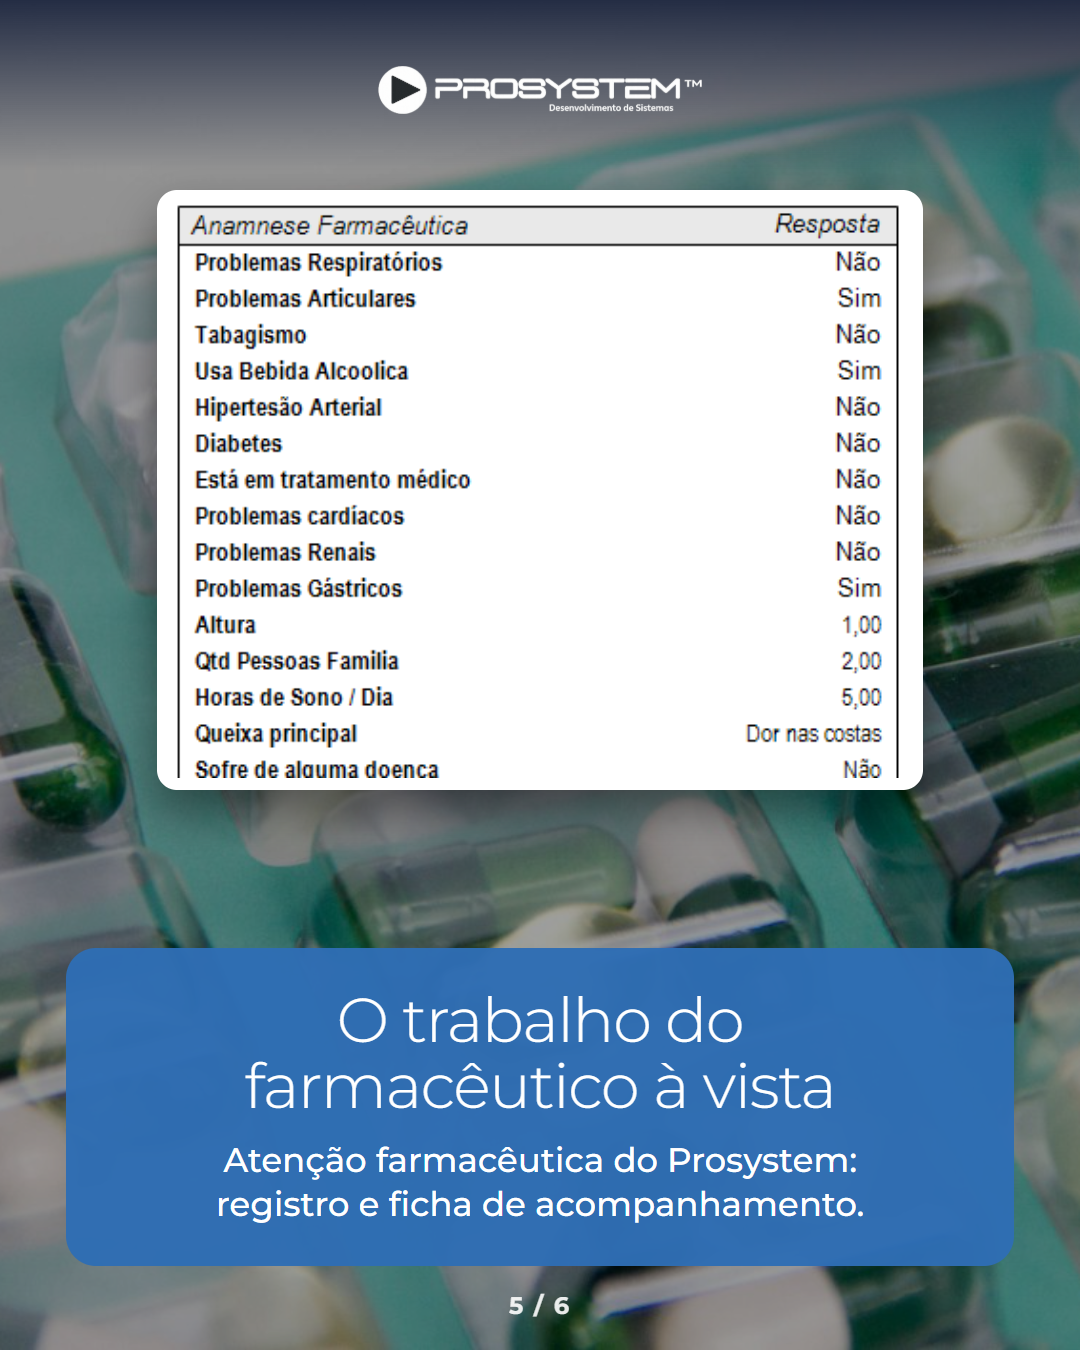
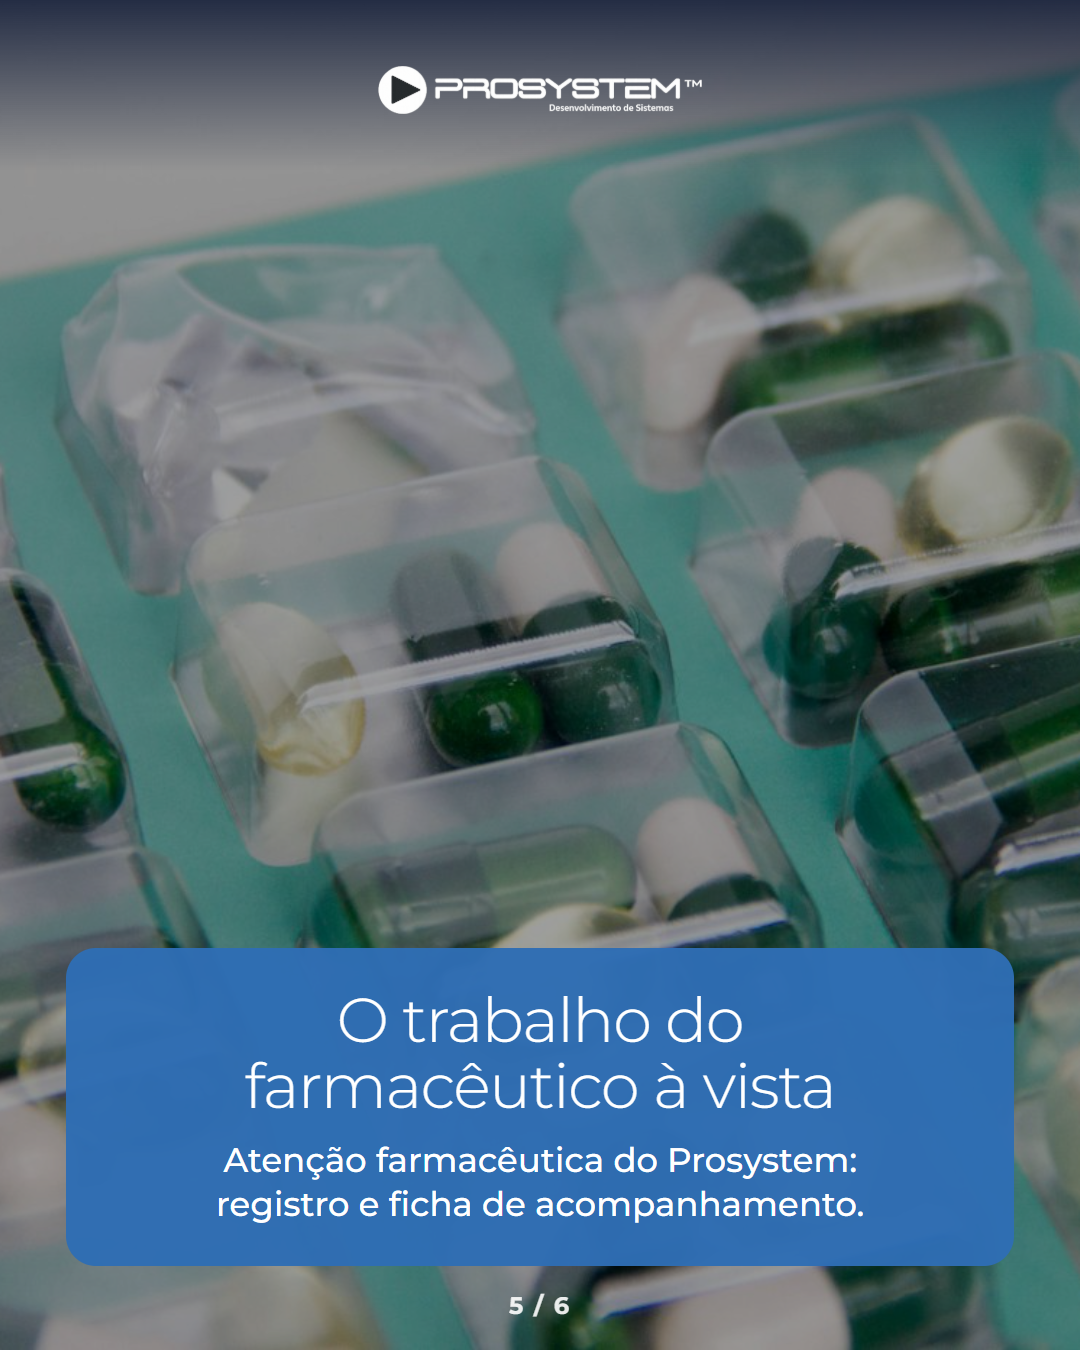
Carrosséis: capa sem tela do sistema e nenhuma tela repetida (uso contínuo, sangria, atenção farmacêutica); regra no caderno de marca

diff --git a/outputs/criativos/nov-dez/pecas-dados.js b/outputs/criativos/nov-dez/pecas-dados.js
@@ -148,11 +148,11 @@ ${CTA}`,
     { foto: 'calculadora', tela: 'sangria-registro', titulo: 'Toda retirada fica <b>registrada.</b>', apoio: 'Valor e motivo, prontos para conferir no fechamento.' },
   ],
   sol: { foto: 'carrinho-paes', titulo: 'Sangria com regra, sem depender da memória', apoio: 'Menos dinheiro exposto na gaveta e um fechamento mais fácil de conferir.' },
-  fim: { foto: 'paes-prateleira-sem-etiqueta', tela: 'sangria-registro', titulo: 'Quer esse controle no caixa da <b>sua padaria?</b>' },
+  fim: { foto: 'paes-prateleira-sem-etiqueta', titulo: 'Quer esse controle no caixa da <b>sua padaria?</b>' },
   kw: 'sangria de caixa',
   cap: `Sangria de caixa na padaria: com café da manhã cheio e fila no caixa, ela fica para depois até alguém lembrar. E dezembro é o mês de mais movimento antes de 2027.\n\nNo Prosystem, você define dois valores: em um, o caixa avisa; no outro, ele só volta a vender depois da sangria. Cada retirada fica registrada para conferir no fechamento.\n\nQuer esse controle na sua padaria? ${CTA}`,
   tags: '#sangriadecaixa #padaria #controledecaixa #sistemaparapadaria',
-  alts: ['Pães em uma prateleira, com o título: quanto dinheiro tem na sua gaveta agora?', 'Aviso do Prosystem pedindo a sangria programada e o texto: chegou no valor, o caixa avisa.', 'Aviso de caixa bloqueado e o texto: passou do limite, o caixa trava.', 'Tela de registro de sangria do Prosystem e o texto: toda retirada fica registrada.', 'Carrinho de pães e o texto: sangria com regra, sem depender da memória.', 'Tela de registro de sangria e o convite para ter esse controle na padaria.'],
+  alts: ['Pães em uma prateleira, com o título: quanto dinheiro tem na sua gaveta agora?', 'Aviso do Prosystem pedindo a sangria programada e o texto: chegou no valor, o caixa avisa.', 'Aviso de caixa bloqueado e o texto: passou do limite, o caixa trava.', 'Tela de registro de sangria do Prosystem e o texto: toda retirada fica registrada.', 'Carrinho de pães e o texto: sangria com regra, sem depender da memória.', 'Pães em uma prateleira e o convite para ter esse controle na padaria.'],
   conferir: ['Produto: a função vale sem ajuste na padaria?', 'A tela de registro tem "centro de custo" e um lançamento de gasolina: conferir no mockup.'] },
 
 { data: 'Seg 07/12', seg: 'Farmácia', id: 'carrossel-farmacia-popular-v2', tipo: 'v2', tema: 'azul', formato: 'Carrossel V2',
@@ -179,18 +179,18 @@ ${CTA}`,
   conferir: ['Produto: combos valem sem ajuste na padaria?', 'As telas da base têm marca de produto e imagem de farmácia. Só os totais foram usados: pedir captura de combo com itens de padaria.', 'Os totais mostram 16,66% de desconto, de um kit com o segundo item a 50%. Não é um leve 3, pague 2 exato: a captura nova resolve.'] },
 
 { data: 'Sex 11/12', seg: 'Farmácia', id: 'carrossel-farmacia-uso-continuo-v3', tipo: 'v2', tema: 'azul', formato: 'Carrossel V2',
-  capa: { foto: 'comprimidos-coloridos', tela: 'uso-continuo-alerta', titulo: 'O remédio do seu cliente acaba em <b>8 dias.</b>', apoio: 'Quem vai lembrar dele primeiro?' },
+  capa: { foto: 'comprimidos-coloridos', titulo: 'O remédio do seu cliente acaba em <b>8 dias.</b>', apoio: 'Quem vai lembrar dele primeiro?' },
   itens: [
     { foto: FOTO_PR, tela: 'uso-continuo-proxima-compra', titulo: 'Na venda, o sistema <b>marca a data.</b>', apoio: 'Você informa como o cliente toma o remédio. O Prosystem calcula a próxima compra.' },
     { foto: 'cartelas-detalhe', tela: 'uso-continuo-alerta', titulo: 'Ele volta, e o balcão <b>é avisado.</b>', apoio: 'O alerta aparece nos 9 dias antes de o remédio acabar.' },
     { foto: 'calculadora', tela: 'uso-continuo-relatorio', titulo: 'Quem deve comprar vira <b>lista.</b>', apoio: 'Relatório por período. Contato só com autorização do cliente.' },
   ],
-  sol: { foto: 'cartelas-azuis', tela: 'uso-continuo-alerta', titulo: 'Lembre antes da outra farmácia', apoio: '13% já compram em farmácia pelo WhatsApp, segundo pesquisa IFEPEC, Axxus e Unicamp.' },
-  fim: { foto: FOTO_PR, tela: 'uso-continuo-alerta', titulo: 'Quer ver o uso contínuo na <b>sua farmácia?</b>' },
+  sol: { foto: 'cartelas-azuis', titulo: 'Lembre antes da outra farmácia', apoio: '13% já compram em farmácia pelo WhatsApp, segundo pesquisa IFEPEC, Axxus e Unicamp.' },
+  fim: { foto: FOTO_PR, titulo: 'Quer ver o uso contínuo na <b>sua farmácia?</b>' },
   kw: 'uso contínuo na farmácia',
   cap: `Cliente de uso contínuo na farmácia: quem lembra primeiro, vende, em 2027 também.\n\nEle raramente avisa que vai comprar. Se ninguém lembrar da reposição, a compra pode ir para outra farmácia, e 13% já compram pelo WhatsApp.\n\nNo sistema Prosystem, como o cliente toma o remédio vira a data da próxima compra. Nos 9 dias antes de acabar, o balcão recebe o alerta, e um relatório mostra quem deve comprar em cada período.\n\n${CTA}`,
   tags: '#usocontinuo #farmacia #fidelizacao #sistemaparafarmacia',
-  alts: ['Alerta do Prosystem de que a medicação do cliente está para acabar, com o título: o remédio do seu cliente acaba em 8 dias.', 'Tela de próxima compra do Prosystem e o texto: na venda, o sistema marca a data.', 'Alerta no balcão e o texto: ele volta, e o balcão é avisado.', 'Relatório de clientes de uso contínuo e o texto: quem deve comprar vira lista.', 'Alerta do Prosystem e o texto: lembre antes da outra farmácia, 13% já compram pelo WhatsApp.', 'Alerta do Prosystem e o convite para ver o uso contínuo na farmácia.'],
+  alts: ['Comprimidos coloridos, com o título: o remédio do seu cliente acaba em 8 dias.', 'Tela de próxima compra do Prosystem e o texto: na venda, o sistema marca a data.', 'Alerta no balcão e o texto: ele volta, e o balcão é avisado.', 'Relatório de clientes de uso contínuo e o texto: quem deve comprar vira lista.', 'Cartelas de comprimidos e o texto: lembre antes da outra farmácia, 13% já compram pelo WhatsApp.', 'Prateleiras de farmácia e o convite para ver o uso contínuo na farmácia.'],
   conferir: ['O contato com o cliente envolve dado de saúde: manter a menção à autorização e à LGPD.', 'A tela de próxima compra tem "Posologia" e contorno vermelho original da base.'] },
 
 { data: 'Seg 14/12', seg: 'Padaria', id: 'padaria-fechamento-caixa-v1', tipo: 'comTela', tema: 'lar', formato: 'Estático com tela', fundo: 'forte',
@@ -344,12 +344,12 @@ ${CTA}`,
     { foto: 'maos-digitando', titulo: 'Registre <b>cada atendimento.</b>', apoio: 'Características do paciente e procedimentos ficam anotados.' },
     { foto: 'cartelas-azuis', tela: 'atencao-anamnese', titulo: 'A ficha fica <b>pronta.</b>', apoio: 'O acompanhamento do paciente reunido em um só lugar.' },
   ],
-  sol: { foto: 'cartelas-detalhe', tela: 'atencao-anamnese', titulo: 'O trabalho do farmacêutico à vista', apoio: 'Atenção farmacêutica do Prosystem: registro e ficha de acompanhamento.' },
-  fim: { foto: FOTO_PR, tela: 'atencao-anamnese', titulo: 'Quer ver a ficha na <b>sua farmácia?</b>' },
+  sol: { foto: 'cartelas-detalhe', titulo: 'O trabalho do farmacêutico à vista', apoio: 'Atenção farmacêutica do Prosystem: registro e ficha de acompanhamento.' },
+  fim: { foto: FOTO_PR, titulo: 'Quer ver a ficha na <b>sua farmácia?</b>' },
   kw: 'atenção farmacêutica',
   cap: `Atenção farmacêutica sem registro se perde: o farmacêutico atende, orienta, e nada fica guardado para o próximo atendimento.\n\nAmanhã é o Dia do Farmacêutico, e uma forma de valorizar esse trabalho em 2027 é deixar ele registrado.\n\nNo Prosystem, a Atenção farmacêutica guarda características e procedimentos, com ficha de acompanhamento do paciente. São dados de saúde, então trate com cuidado e siga a LGPD.\n\n${CTA}`,
   tags: '#atencaofarmaceutica #farmaceutico #farmacia #sistemaparafarmacia',
-  alts: ['Profissional de jaleco medindo a pressão de um homem, com o título: seu farmacêutico atende, onde fica o histórico?', 'Prateleiras de farmácia e o texto: atendeu e ficou na memória?', 'Mãos digitando e o texto: registre cada atendimento.', 'Ficha de anamnese do Prosystem e o texto: a ficha fica pronta.', 'Ficha de anamnese do Prosystem e o texto: o trabalho do farmacêutico à vista.', 'Ficha de anamnese e o convite para ver a ficha na farmácia.'],
+  alts: ['Profissional de jaleco medindo a pressão de um homem, com o título: seu farmacêutico atende, onde fica o histórico?', 'Prateleiras de farmácia e o texto: atendeu e ficou na memória?', 'Mãos digitando e o texto: registre cada atendimento.', 'Ficha de anamnese do Prosystem e o texto: a ficha fica pronta.', 'Cartelas de comprimidos e o texto: o trabalho do farmacêutico à vista.', 'Prateleiras de farmácia e o convite para ver a ficha na farmácia.'],
   conferir: ['Produto: a Atenção farmacêutica segue como na base?', 'A tela foi recortada sem nome, foto e contato do paciente da ficha de exemplo. Use o recorte no mockup, porque o original mostra uma foto com direito de uso não confirmado.'] },
 
 { data: 'Qua 20/01', seg: 'Farmácia', id: 'frase-dia-do-farmaceutico-v1', tipo: 'frase', tema: 'azul', formato: 'Frase de impacto', nova: true, semAno: true, fs: 92,

diff --git a/docs/contexto/relatorios/2026-11-03-carrossel-capa-sem-tela-sem-repetir.md b/docs/contexto/relatorios/2026-11-03-carrossel-capa-sem-tela-sem-repetir.md
@@ -1,0 +1,26 @@
+# 03/11/2026 — Carrossel: capa sem tela e nenhuma tela repetida (regra nova)
+
+## Pedido
+Sobre o carrossel do uso contínuo (farmácia, 11/12): "Tire a imagem do sistema da Capa, e deixe só nos demais slides e nao repita o mesmo, é melhor deixar sem do que repetir, coloque isso como regra para as demais produções."
+
+## Feito
+- `outputs/criativos/nov-dez/pecas-dados.js`:
+  - `carrossel-farmacia-uso-continuo-v3`: tirada a tela `uso-continuo-alerta` da capa e dos slides 5 e 6. Ela fica só no slide 3; slides 2 e 4 seguem com `uso-continuo-proxima-compra` e `uso-continuo-relatorio`.
+  - Regra aplicada às outras peças ainda não publicadas: `carrossel-padaria-sangria-v2` (tela `sangria-registro` saiu do slide 6, fica no 4) e `carrossel-farmacia-atencao-farmaceutica-v2` (tela `atencao-anamnese` saiu dos slides 5 e 6, fica no 4).
+  - Textos alternativos desses slides reescritos sem citar a tela.
+- Imagens regeradas com `node gerar.js <id>` em `outputs/criativos/nov-dez/pecas/`.
+- Regra registrada em `docs/design/caderno-de-marca/project/decisoes.md` (tabela Decidido) e `producao.md` (lista do Carrossel), e na memória do Claude.
+
+## Verificado
+- Gerador rodou sem estouro de texto nas três peças.
+- Conferi a folha de contato dos 18 slides: nenhuma capa com tela e nenhuma tela repetida.
+
+## Decisões e porquês
+- `carrossel-farmacia-reforma-tributaria-v1` (04/11) também repete `painel-estoque` (capa, 5 e 6), mas está publicada e travada (commit 4c47924). Não mexi.
+
+## Pendente
+- Mockups das telas ainda são da Jessica (uso contínuo, sangria, anamnese).
+- Jessica decide se a peça de 04/11 deve ser refeita.
+
+## Próxima sessão
+- Antes de criar um carrossel, ler `producao.md` (lista do Carrossel) e conferir a capa e as repetições de tela.

diff --git a/docs/design/caderno-de-marca/project/decisoes.md b/docs/design/caderno-de-marca/project/decisoes.md
@@ -18,6 +18,7 @@
 | 30/10/2026 | Mockup de tela só em notebook e desktop, em balcão ou escritório. Celular e tablet proibidos | "proibido celular, faça apenas em notebook e desktop em balcão etc" |
 | 30/10/2026 | Telas reais do Prosystem podem aparecer nas peças, em mockup. Os dados das telas da base são fictícios | "Quero usar os mockups das telas também do Prosystem", "Esses dados que constam nas telas são fictícios" |
 | 30/10/2026 | A Jessica faz os mockups de tela; os gerados por código foram reprovados | "separe as telas que eu faço os mockups" |
+| 03/11/2026 | Carrossel: capa sem tela do sistema, sempre que possível. Cada tela aparece em um só slide; é melhor um slide sem tela do que repetir | "Tire a imagem do sistema da Capa", "nao repita o mesmo, é melhor deixar sem do que repetir, coloque isso como regra para as demais produções" |
 | 30/10/2026 | Tipos de post da próxima fase | "carrossel, estático, frases de impacto [...] memes, depoimentos e etc" |
 | 05/08/2026 | Hero com Modelo nos anúncios ANI01 a ANI06 | `briefings/farmacia-hero-modelo.md` |
 | Maio e junho de 2026 | Sem amarelo, sem texto em inglês, sem cara de IA | Correções feitas ao longo das criações |

diff --git a/docs/design/caderno-de-marca/project/producao.md b/docs/design/caderno-de-marca/project/producao.md
@@ -63,6 +63,8 @@ Para um carrossel novo, altere os textos e as fotos no início do gerador, em `c
 **Carrossel**
 - Todas as páginas no mesmo modelo.
 - Contador de página presente nas páginas 2 a 5.
+- Capa sem tela do sistema, sempre que possível.
+- Cada tela do sistema em um só slide. Sem tela nova para mostrar, o slide fica só com a foto: nunca repetir a mesma tela.
 - Conferido no tamanho real e reduzido, como aparece no celular.
 
 **Entrega**
